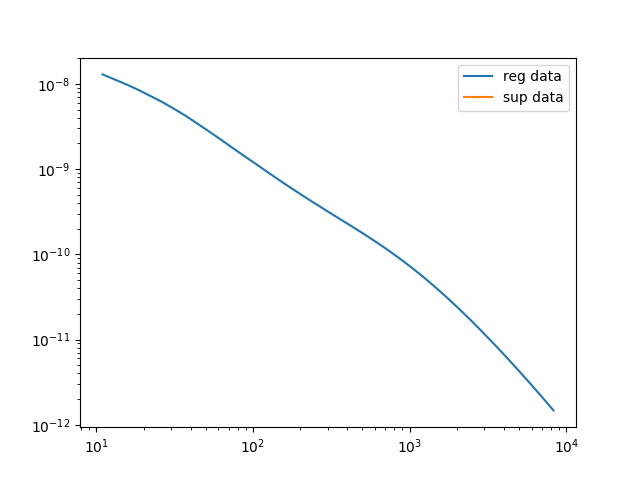
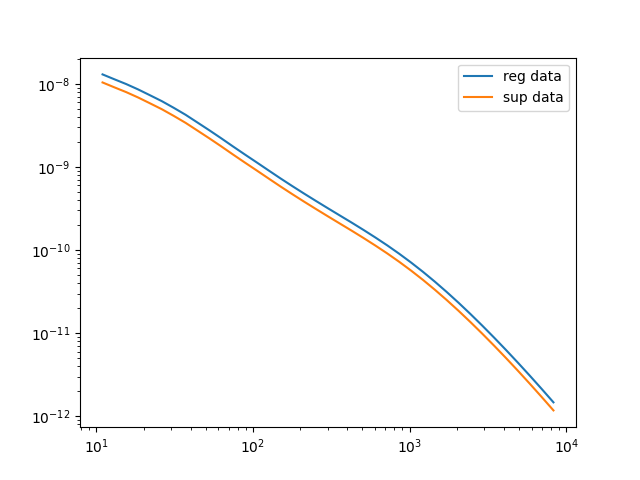
new sup plot, new alphas

diff --git a/tests/test_cl_sup.py b/tests/test_cl_sup.py
@@ -6,7 +6,7 @@ import matplotlib.pyplot as plt
 
 pkcl = pk.Cl_kk_supp()
 pkcl.zsrc = 0.4
-alphas = np.arange(20)/40
+alphas = np.ones(20)*0.80
 cents,data_binned,cinv = pkcl.make_mock_data(sup=True,alphas=alphas)
 cl_arr = np.vstack((cents,data_binned))
 np.savetxt("../mock_data/mock_sup_cl_0.4.txt",cl_arr)
